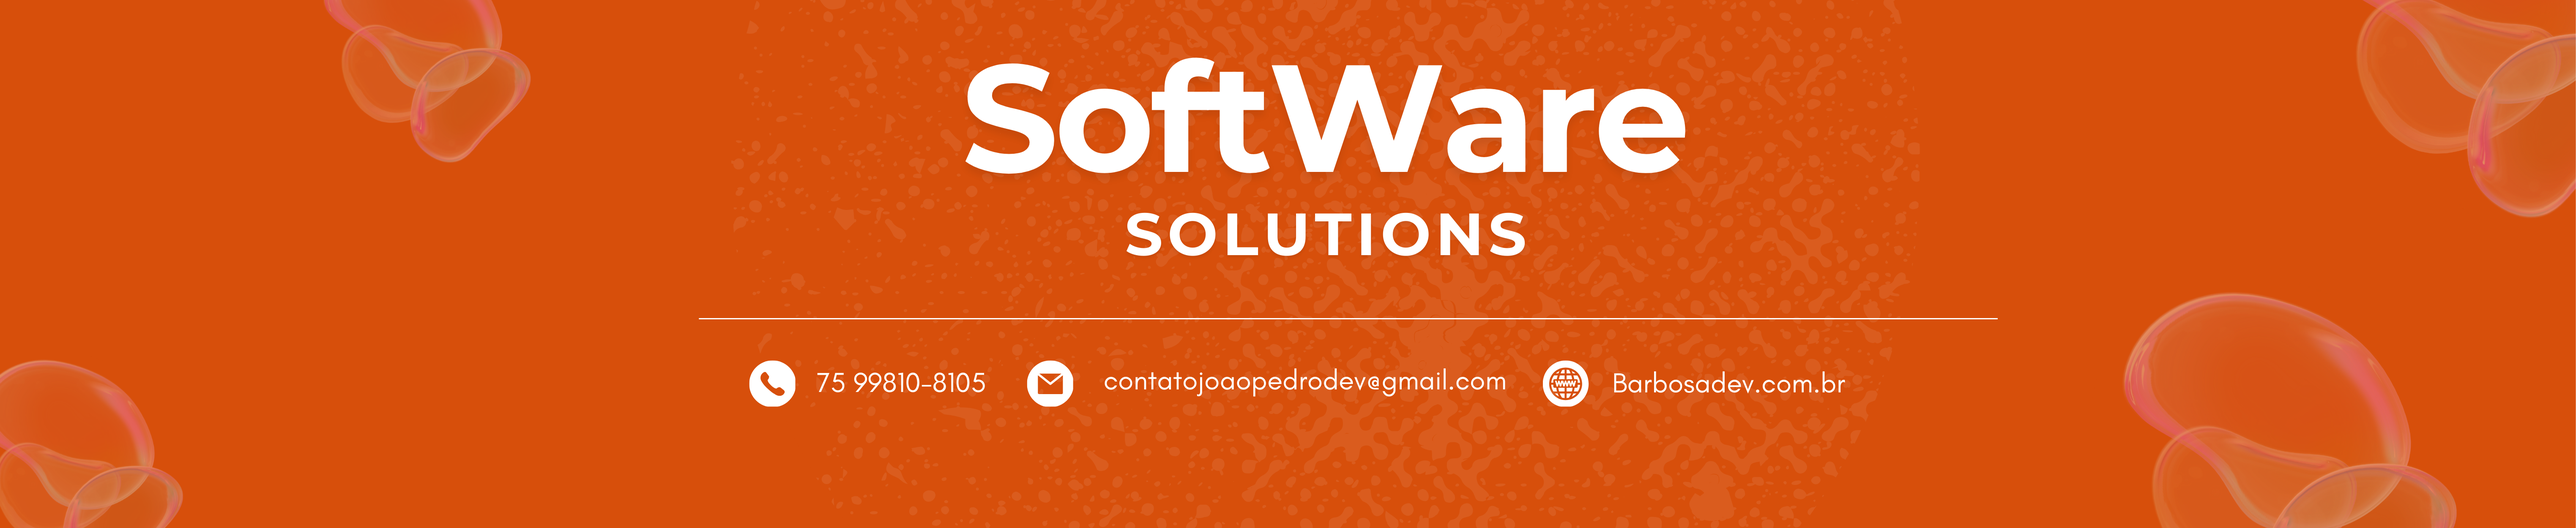
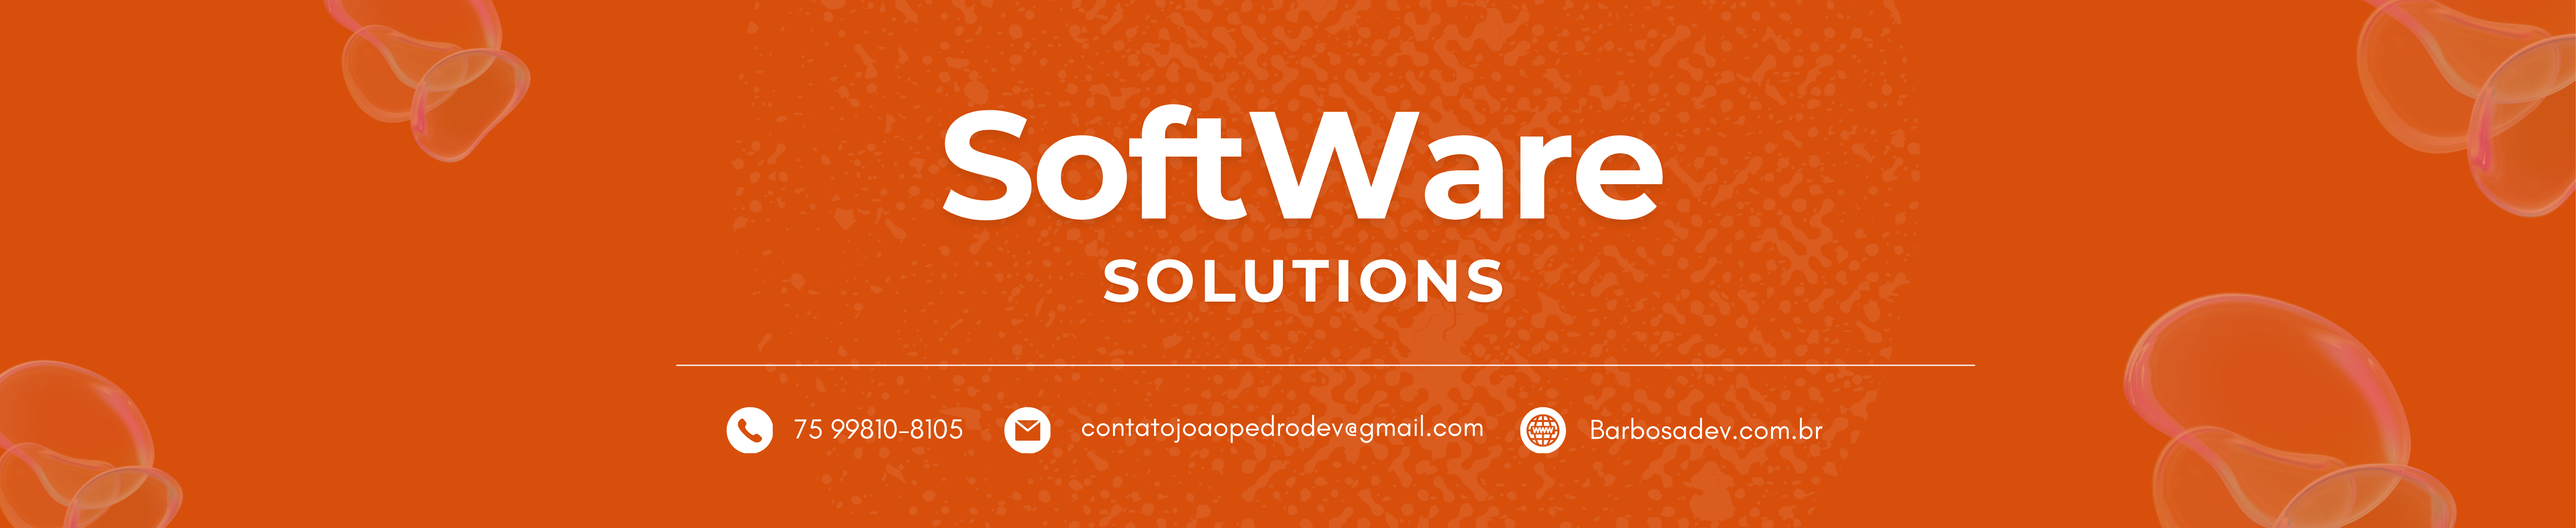
section-tecnologias

Changed region(s): [[0.343, 0.0936, 0.6547, 0.5928], [0.2806, 0.6864, 0.7483, 0.8736]]

diff --git a/assets/index.html b/assets/index.html
@@ -29,13 +29,31 @@
                     <div class="img-perfil"></div>
                     <div class="txt-perfil">
                         <h1>João Pedro Barbosa</h1>
-                        <p>Desenvolvedor de Software orientado a Fundamentos | Algoritmos, <br> Estruturas de    Dados e Sistemas | JavaScript, Node.js, Java, Go</p>
+                        <p>Desenvolvedor de Software orientado a Fundamentos | Algoritmos, <br> Estruturas de    Dados e Sistemas | JavaScript, Node.js, Java, Go... <br><br> Bahia!</p>
                     </div>
                 </div>
                 <div class="button-perfil">
-                    <div class="baixarcv">Baixar CV</div>
+                    <div class="baixarcv"><p>Baixar CV</p></div>
                     <div class="button-contato">CONTATO</div>
                 </div>
+            </div>
+        </section>
+
+        <section class="tecnologias">
+            <div class="container-conteudo">
+                <div class="flex">
+                    <div class="destaque-tech"><p>Full-stack</p></div>
+                    <div class="destaque-tech"><p>Javascript</p></div>
+                    <div class="destaque-tech"><p>Node.js</p></div>
+                    <div class="destaque-tech"><p>Java</p></div>
+                    <div class="destaque-tech"><p>Go</p></div>
+                    <div class="destaque-tech"><p>Phayton</p></div>
+                    
+                </div>
+                
+            </div>
+            <div class="container-conteudo">
+                <div class="divisor"></div>
             </div>
         </section>
 

diff --git a/assets/style/desktop/section-perfil.css b/assets/style/desktop/section-perfil.css
@@ -1,6 +1,4 @@
-.perfil .container-conteudo{
-    background-color: rgba(137, 43, 226, 0.163);
-}
+
 .container-conteudo p{
     font-size: 12px;
 }
@@ -36,4 +34,33 @@
     
     text-align: justify;
     color:var(--cor-txt-primaria);
+}
+
+.button-perfil{
+    width: 20%;
+    height: 200px;
+    display: flex;
+    flex-direction: column;
+}
+.baixarcv{
+    width: 200px;
+    height: 50px;
+    background:white;
+    border-radius: 8px;
+    text-align: center;
+    cursor: pointer;
+    font-weight: 700;
+    font-size: 20px;
+    box-shadow: 0px 4px 8px #474747;
+    margin-bottom: 40px;
+    line-height:50px;
+}
+.baixarcv p{
+    background: var(--cor-gradiente-txt); 
+    -webkit-background-clip: text;
+     background-clip: text;
+    -webkit-text-fill-color: transparent;
+    font-size: 20px;
+    font-weight: 700;
+
 }

diff --git a/assets/style/desktop/section-tecnologias.css b/assets/style/desktop/section-tecnologias.css
@@ -1,0 +1,29 @@
+.tecnologias{
+    width: 100vw;
+    height: 200px;
+    
+}
+.flex{
+    width: 100%;
+    height: 50px;
+    display: flex;
+    gap: 15px;
+    
+}
+.destaque-tech{
+    width: 20%;
+    height: 30px;
+    background: var(--cor-gradiente-button);
+    border-radius: 10px;
+    line-height:30px;
+    box-shadow: 4px 4px 4px  #FF7348 ;
+    
+}
+.destaque-tech p{
+    font-size: 20px;
+}
+.divisor{
+    width: 100%;
+    height: 2px;
+    background-color: rgba(0, 0, 0, 0.435);
+}

diff --git a/assets/style/desktop/section-nav.css b/assets/style/desktop/section-nav.css
@@ -2,10 +2,11 @@ nav{
     width: 100vw;
     height: 80px;
     background:var(--cor-gradiente-navbar); 
+    padding-top: 12px;
 }
 .container-conteudo{
     max-width: 1024px;
-    height: 100%;
+    
     margin: 0 auto;
     display: flex;
     align-items: center;
@@ -53,4 +54,5 @@ ul li a{
     font-weight: 700;
     font-size: 20px;
     box-shadow: 0px 4px 8px #E7633B;
+    line-height:50px;
 }

diff --git a/assets/style/desktop/section-banner.css b/assets/style/desktop/section-banner.css
@@ -1,8 +1,8 @@
 .banner{
-    max-width:1920px;
+    width:1920px;
     height: 350px;
-    background-image: url(/assets/img/SoftWare\ \(1900\ x\ 500\ px\)\ \(1900\ x\ 350\ px\)\ \(1920\ x\ 350\ px\).png);
+    background-image: url(/assets/img/baner02.png);
     background-repeat: no-repeat;   
-    background-size: 100% 100%;
+    background-size: 100%;
     
 }

diff --git a/assets/style/global/global.css b/assets/style/global/global.css
@@ -7,3 +7,4 @@
 @import url(/assets/style/desktop/section-nav.css);
 @import url(/assets/style/desktop/section-banner.css);
 @import url(/assets/style/desktop/section-perfil.css);
+@import url(/assets/style/desktop/section-tecnologias.css);
